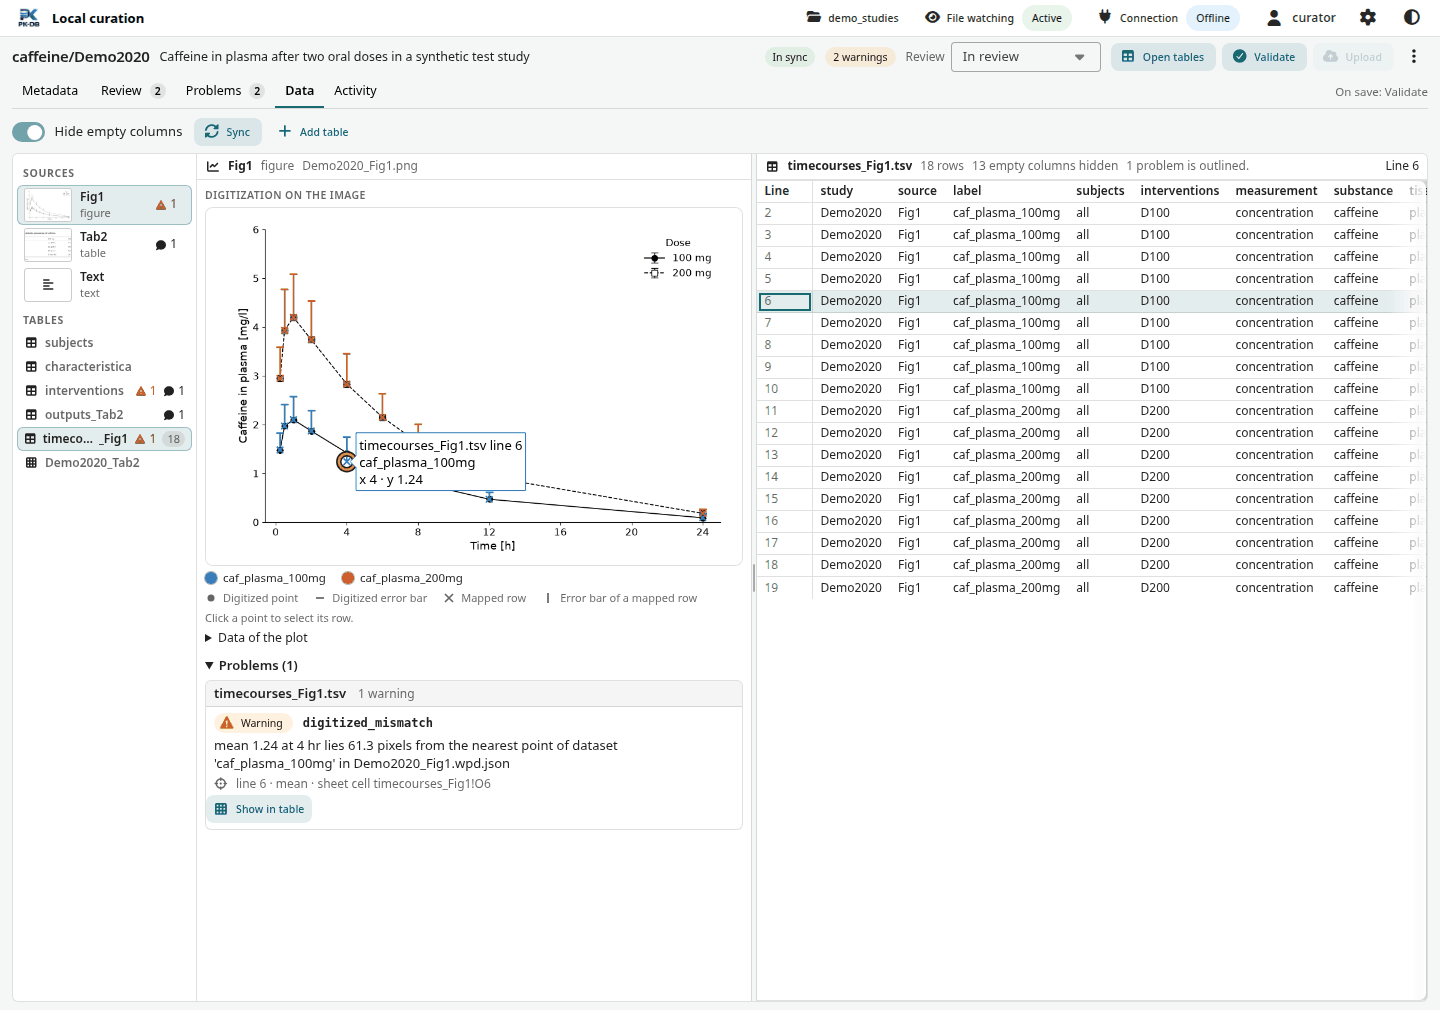
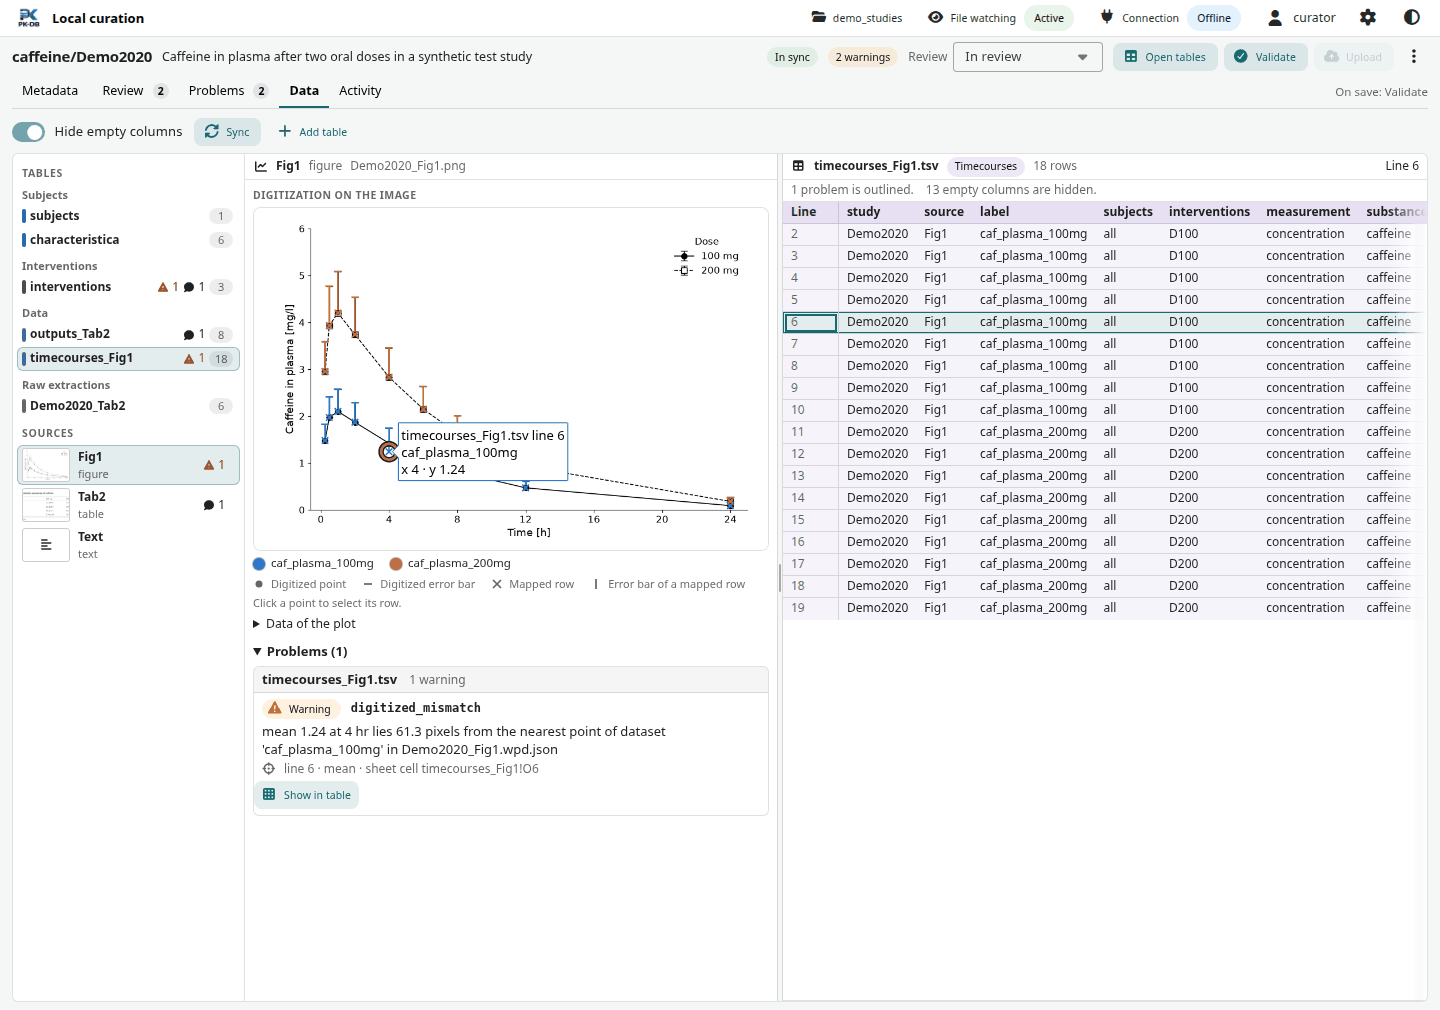
Document the Data section with its tables first and their colors

diff --git a/docs/local-curation.md b/docs/local-curation.md
@@ -137,21 +137,21 @@ Filter by **All**, **Errors** or **Warnings**. **Show in table** opens the Data 
 
 ### Data
 
-The Data section shows a source of the study beside the rows of a table. It has three panes: the navigator, the source pane and the rows pane.
+The Data section shows the tables of the study beside their sources. It has three panes: the navigator, the source pane and the rows pane.
 
-[![The Data section with the figure Fig1: the navigator of sources and table files, the digitized points and the mapped rows on the image with the hover label of the selected mapped row, and the rows of timecourses_Fig1.tsv with that row marked.](images/curation/data.png)](images/curation/data.png)
+[![The Data section with the figure Fig1: the navigator with the tables grouped and colored by their information and the sources below them, the digitized points and the mapped rows on the image with the hover label of the selected mapped row, and the violet rows of timecourses_Fig1.tsv with that row marked.](images/curation/data.png)](images/curation/data.png)
 
-- The navigator lists the sources, each paper table (`Tab…`), figure (`Fig…`) and the text (`Text`), with a thumbnail of its image, and the table files in the order of the workbook sheets, with the raw tables last. A source and a file show the number of their problems after a red error icon, or after an amber warning triangle when all of them are warnings, and the number of their open review items after a speech bubble. While a source is selected, a file shows how many rows of the source it has on a gray pill, and a file without any is dimmed. A table file shows its name without `.tsv`; a long name is shortened before its last part, such as `_Fig1`, which tells the files of a kind apart. Hover a shortened name to read it in full, or a number to read what it counts. In a window narrower than 1100 pixels the navigator becomes two selects, **Source** and **Table**, in the toolbar.
-- The source pane shows the selected source. A table shows its image and its raw extraction `<name>_<source>.tsv` as a grid with spreadsheet column letters. A figure with a WebPlotDigitizer project `<name>_<source>.wpd.json` shows the digitization on the image: dots for the digitized points, short bars for the digitized ends of error bars, crosses for the mapped rows and lines for their error bars. Hover a point to see its file, TSV line, series and values. **Data of the plot** lists every point in a table, and the series without a dataset in the project are plotted below the image. A figure without a project shows its image and a plot of the mapped rows. **Fit** and **100 %** at the end of the line above the pane fit the image of a table, or of a figure without a project, into the pane, or show it at its full size, which scrolls sideways; the browser remembers the choice for you. A missing image or raw extraction shows the name of the file to add. The problems of the files of the source are listed at the end, by file, as in the Problems section.
-- The rows pane shows the selected table file, read only. Its line numbers are the lines of the TSV file, the rows that open review items target are amber, and the cells with problems are outlined. Click a row to select it. With the keyboard, Tab reaches the line numbers, the arrow keys move between them, Home and End go to the first and the last row, and Enter selects the row.
+- The navigator lists the tables first, in the order of the workbook sheets, under the headings **Subjects** (`subjects.tsv` and `characteristica.tsv`), **Interventions** (`interventions.tsv`), **Data** (`outputs_<source>.tsv`, `timecourses_<source>.tsv` and `scatters_<source>.tsv`) and **Raw extractions** (`<name>_<source>.tsv`). A bar in the color of its heading marks each table: blue for subjects, green for interventions, violet for data and grey for raw extractions. A table shows its name without `.tsv`, cut at its end when it is long (hover it to read it in full), the number of its problems after a red error icon, or after an amber warning triangle when all of them are warnings, the number of its open review items after a speech bubble, and the number of its rows on a gray pill. The sources follow: each paper table (`Tab…`), figure (`Fig…`) and the text (`Text`), with a thumbnail of its image and its problems and open review items. In a window narrower than 1100 pixels the navigator becomes two selects in the toolbar, **Table**, with the tables under the same headings and a dot in their color, and **Source**.
+- The source pane shows the selected source. A table shows its image and its raw extraction `<name>_<source>.tsv` as a grid with spreadsheet column letters. A figure with a WebPlotDigitizer project `<name>_<source>.wpd.json` shows the digitization on the image: dots for the digitized points, short bars for the digitized ends of error bars, crosses for the mapped rows and lines for their error bars. Hover a point to see its file, TSV line, series and values. **Data of the plot** lists every point in a table, and the series without a dataset in the project are plotted below the image. A figure without a project shows its image and a plot of the mapped rows. **Fit** and **100 %** at the end of the line above the pane fit the image of a table, or of a figure without a project, into the pane, or show it at its full size, which scrolls sideways; the browser remembers the choice for you. A missing image or raw extraction shows the name of the file to add. The problems of the files of the source are listed at the end, by file, as in the Problems section. When the pane is taller than its view, its content fades out at the bottom; scroll it to read the rest.
+- The rows pane shows the selected table, read only, in the color of its heading: its header row and its cells are tinted. Its head shows the kind of the table, such as **Subjects** or **Timecourses**, the file, the number of its rows and, for a shared table, the **Source** select; the notes about the rows, such as how many rows open review items target, follow on a line below that wraps. Its line numbers are the lines of the TSV file, the rows that open review items target are amber, and the cells with problems are outlined. Click a row to select it; the selected row is framed. With the keyboard, Tab reaches the line numbers, the arrow keys move between them, Home and End go to the first and the last row, and Enter selects the row.
 
 The separator between the source pane and the rows pane resizes them; drag it or focus it and press the arrow keys. The app remembers the split. In a window narrower than 960 pixels the panes stack, the source above its rows.
 
-The selection is linked. Choose a source in the navigator, and the pane shows it and the rows pane shows the table file of its mapped rows. Choose a table file, and the pane shows the source that owns it. Click a row, and the source pane rings its point on the plot or the image. Click the cross of a mapped row, and the rows pane selects its row. The selection is in the address of the page as `source`, `file`, `line` and `column`, so that **Show in table** of the Problems and Review sections and the line numbers of a review target open the row. The section opens on the first source with problems, else on the first source, and keeps it in the address, so that the selection stays when the problems change.
+The selection is linked. Choose a table in the navigator, and the source pane shows its source: a table of one source, such as `outputs_Tab2.tsv` or the raw extraction `Demo2020_Tab2.tsv`, belongs to `Tab2`, and a shared table keeps the source that is shown. Choose a source, and the rows pane shows the first table that it owns; a source that owns no table keeps the current table. Click a row of a shared table, and the source pane shows the source that the row names. Click a row, and the source pane rings its point on the plot or the image. Click the cross of a mapped row, and the rows pane selects its row. The selection is in the address of the page as `source`, `file`, `line` and `column`, so that **Show in table** of the Problems and Review sections and the line numbers of a review target open the row. The section opens on the first table with problems or open review items, else on the first table, beside its source, or beside the first source for a shared table, and keeps the selection in the address, so that it stays when the problems change.
 
-The mapped rows of a source are the rows of its tables `outputs_<source>.tsv`, `timecourses_<source>.tsv` and `scatters_<source>.tsv`, and the rows of `subjects.tsv`, `characteristica.tsv` and `interventions.tsv` whose `source` names it. A table shared by several sources, such as `subjects.tsv`, names the source of each row. The switch **Rows of <source> only** shows only while such a shared table is shown: when it is on, the rows pane shows the rows of the selected source and the selected line. Choosing another file turns it on again. When the table has no rows of the source, the rows pane says **No rows of <source> in <file>** instead, with a **Show all rows** button beside it that turns the switch off. **Hide empty columns** hides the columns without values; it is on when the section opens, and the line above the grid counts the hidden columns.
+The mapped rows of a source are the rows of its tables `outputs_<source>.tsv`, `timecourses_<source>.tsv` and `scatters_<source>.tsv`, and the rows of `subjects.tsv`, `characteristica.tsv` and `interventions.tsv` whose `source` names it. These three tables are shared by the sources and name the source of each row, so the rows pane shows all of their rows and has a **Source** select in its head: **All**, each source that the rows name, and **No source**, each with its number of rows. The app keeps the choice of each table while the study is open. When no row has the chosen source, the rows pane says so, with a **Show all rows** button. A row that the address names always shows. **Hide empty columns** hides the columns without values; it is on when the section opens, and the line above the grid counts the hidden columns.
 
-The toolbar above the panes has, in this order: in a window narrower than 1100 pixels, the selects **Source** and **Table**; the switch **Rows of <source> only**, for a shared table; the switch **Hide empty columns**, while a table is shown; **Sync**, which syncs the workbook `<name>.xlsx` and the tables at once; and **Add table**, which adds a sheet to the workbook, see [Work with the workbook](#work-with-the-workbook). A line of text ends the toolbar: after a sync in the app it says what the sync changed, and while the status is not In sync it says what the status means. The sync status itself is in the study header.
+The toolbar above the panes has, in this order: in a window narrower than 1100 pixels, the selects **Table** and **Source**; the switch **Hide empty columns**, while a table is shown; **Sync**, which syncs the workbook `<name>.xlsx` and the tables at once; and **Add table**, which adds a sheet to the workbook, see [Work with the workbook](#work-with-the-workbook). A line of text ends the toolbar: after a sync in the app it says what the sync changed, and while the status is not In sync it says what the status means. The sync status itself is in the study header.
 
 | Status | Meaning |
 | --- | --- |
